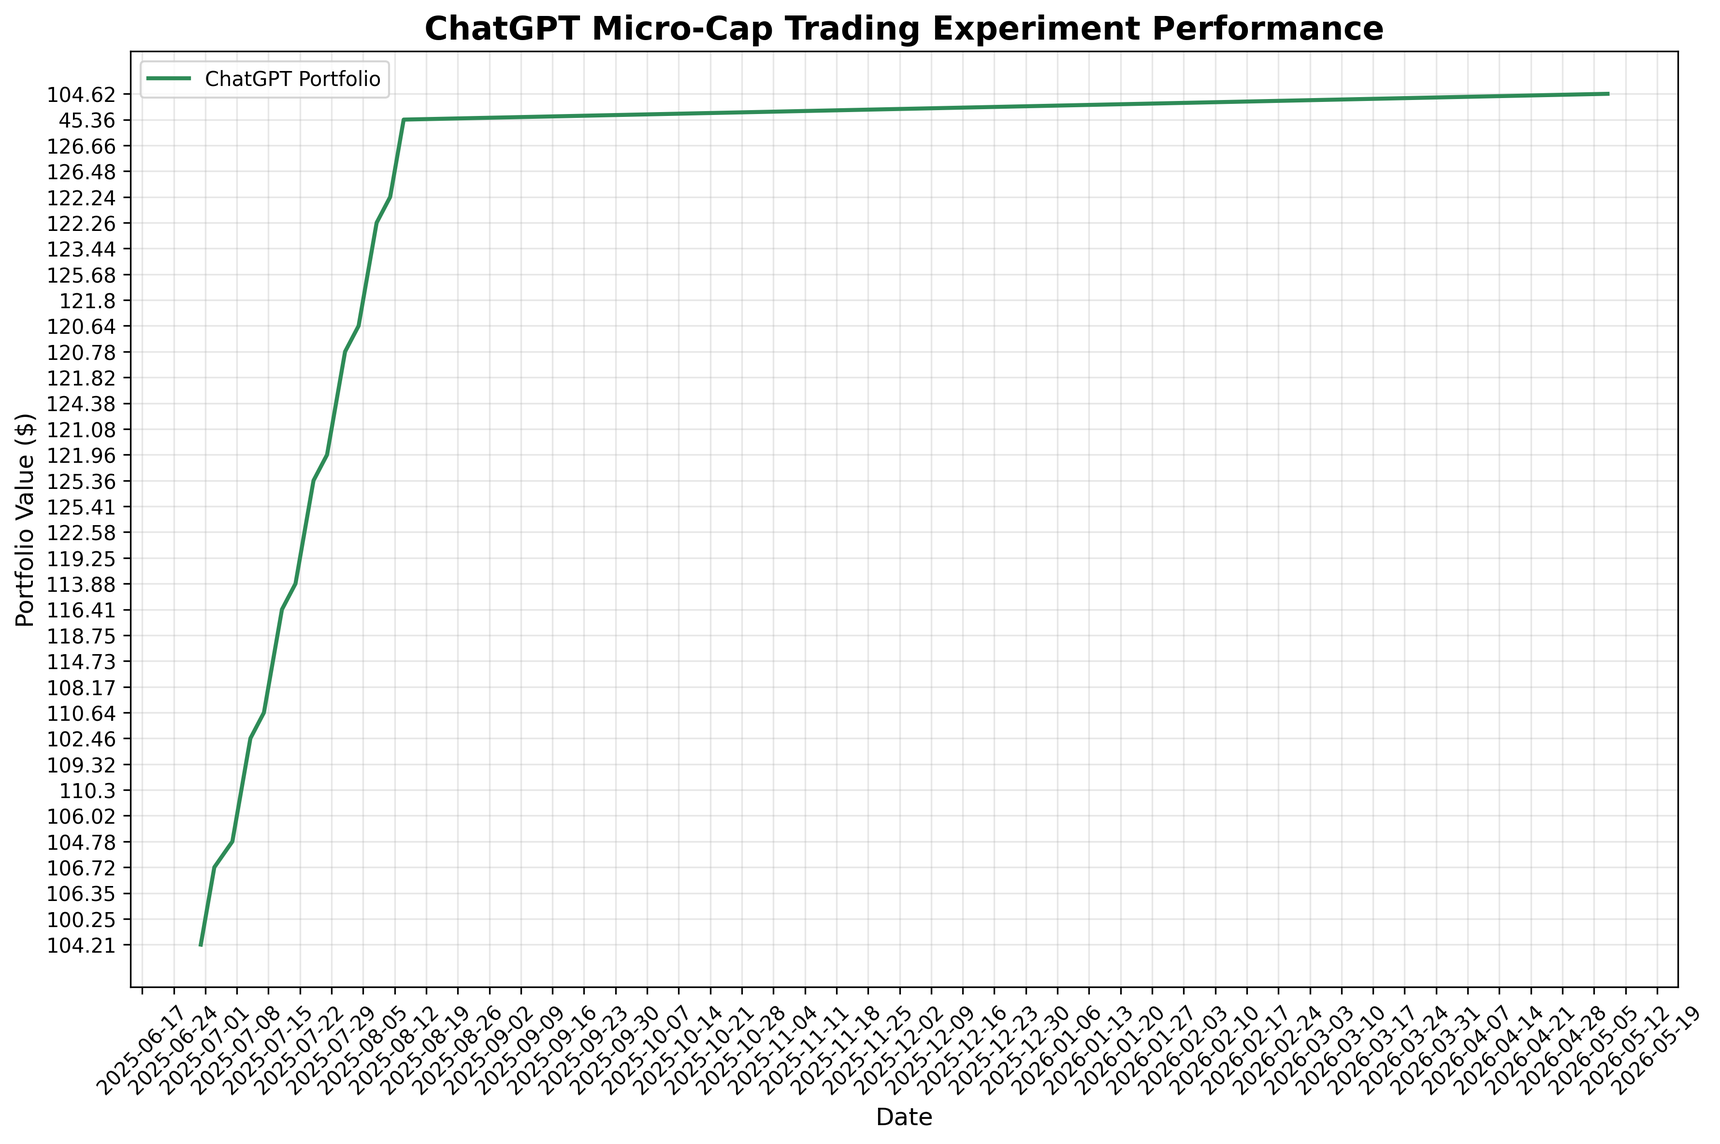
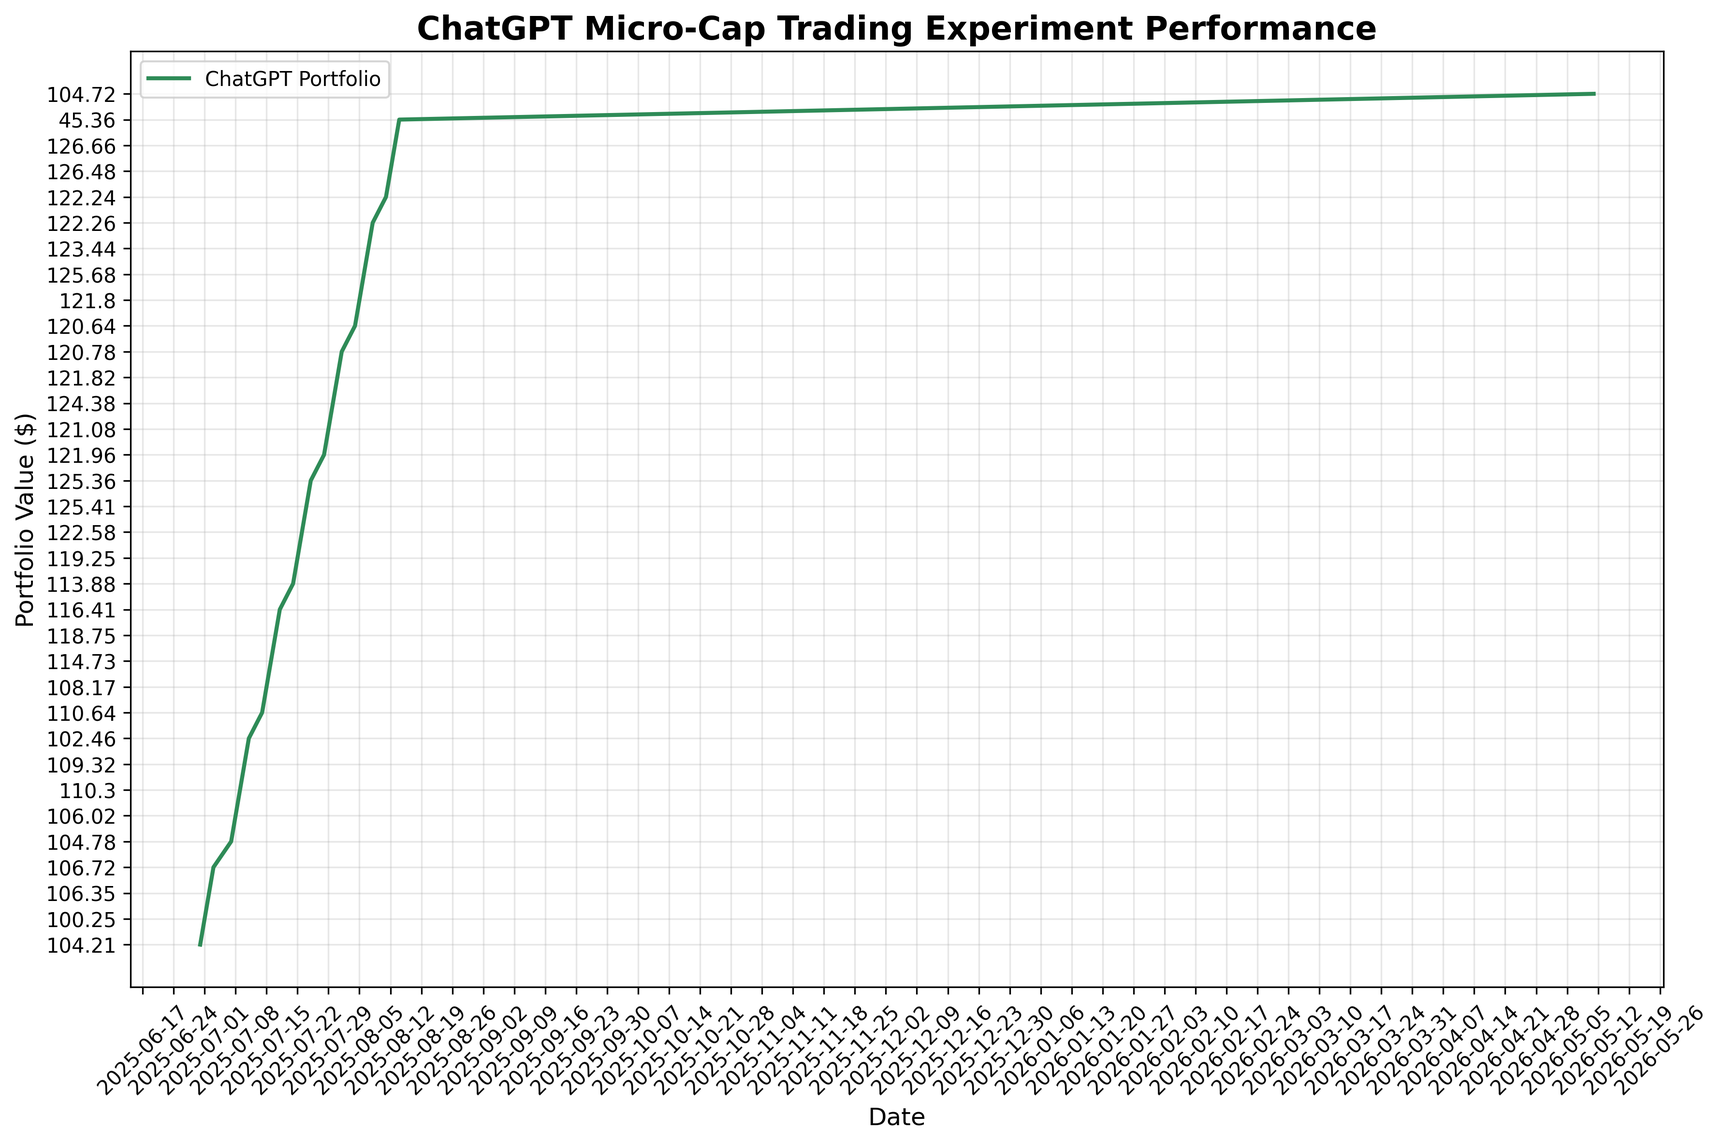
deploy: e15cad030d70fb3fbb51f9df6e22fa70c2f175c0

diff --git a/index.html b/index.html
@@ -105,7 +105,7 @@
                 <div class="stat-label">Total Trades</div>
             </div>
             <div class="stat-card">
-                <div class="stat-value" id="last-updated">2026-05-08</div>
+                <div class="stat-value" id="last-updated">2026-05-11</div>
                 <div class="stat-label">Last Updated</div>
             </div>
         </div>
@@ -160,8 +160,8 @@
     
     <script>
         // Portfolio data
-        const portfolioData = JSON.parse("[{&quot;Date&quot;: &quot;2025-08-11&quot;, &quot;Ticker&quot;: &quot;ABEO&quot;, &quot;Shares&quot;: 4.0, &quot;Buy Price&quot;: 5.77, &quot;Cost Basis&quot;: 23.08, &quot;Stop Loss&quot;: 4.9, &quot;Current Price&quot;: 6.28, &quot;Total Value&quot;: 25.12, &quot;PnL&quot;: 2.04, &quot;Action&quot;: &quot;HOLD&quot;, &quot;Cash Balance&quot;: NaN, &quot;Total Equity&quot;: NaN}, {&quot;Date&quot;: &quot;2025-08-11&quot;, &quot;Ticker&quot;: &quot;ACTU&quot;, &quot;Shares&quot;: 6.0, &quot;Buy Price&quot;: 5.75, &quot;Cost Basis&quot;: 34.5, &quot;Stop Loss&quot;: 4.89, &quot;Current Price&quot;: 8.01, &quot;Total Value&quot;: 48.06, &quot;PnL&quot;: 13.56, &quot;Action&quot;: &quot;HOLD&quot;, &quot;Cash Balance&quot;: NaN, &quot;Total Equity&quot;: NaN}, {&quot;Date&quot;: &quot;2025-08-11&quot;, &quot;Ticker&quot;: &quot;ESPR&quot;, &quot;Shares&quot;: 2.0, &quot;Buy Price&quot;: 1.91, &quot;Cost Basis&quot;: 3.82, &quot;Stop Loss&quot;: 1.6, &quot;Current Price&quot;: 1.85, &quot;Total Value&quot;: 3.7, &quot;PnL&quot;: -0.12, &quot;Action&quot;: &quot;HOLD&quot;, &quot;Cash Balance&quot;: NaN, &quot;Total Equity&quot;: NaN}, {&quot;Date&quot;: &quot;2025-08-11&quot;, &quot;Ticker&quot;: &quot;TOTAL&quot;, &quot;Shares&quot;: NaN, &quot;Buy Price&quot;: NaN, &quot;Cost Basis&quot;: NaN, &quot;Stop Loss&quot;: NaN, &quot;Current Price&quot;: NaN, &quot;Total Value&quot;: 76.88, &quot;PnL&quot;: 15.48, &quot;Action&quot;: NaN, &quot;Cash Balance&quot;: 45.36, &quot;Total Equity&quot;: &quot;122.24&quot;}, {&quot;Date&quot;: &quot;2025-08-12&quot;, &quot;Ticker&quot;: &quot;ABEO&quot;, &quot;Shares&quot;: 4.0, &quot;Buy Price&quot;: 5.77, &quot;Cost Basis&quot;: 23.08, &quot;Stop Loss&quot;: 4.9, &quot;Current Price&quot;: 6.38, &quot;Total Value&quot;: 25.52, &quot;PnL&quot;: 2.44, &quot;Action&quot;: &quot;HOLD&quot;, &quot;Cash Balance&quot;: NaN, &quot;Total Equity&quot;: NaN}, {&quot;Date&quot;: &quot;2025-08-12&quot;, &quot;Ticker&quot;: &quot;ACTU&quot;, &quot;Shares&quot;: 6.0, &quot;Buy Price&quot;: 5.75, &quot;Cost Basis&quot;: 34.5, &quot;Stop Loss&quot;: 4.89, &quot;Current Price&quot;: 8.67, &quot;Total Value&quot;: 52.02, &quot;PnL&quot;: 17.52, &quot;Action&quot;: &quot;HOLD&quot;, &quot;Cash Balance&quot;: NaN, &quot;Total Equity&quot;: NaN}, {&quot;Date&quot;: &quot;2025-08-12&quot;, &quot;Ticker&quot;: &quot;ESPR&quot;, &quot;Shares&quot;: 2.0, &quot;Buy Price&quot;: 1.91, &quot;Cost Basis&quot;: 3.82, &quot;Stop Loss&quot;: 1.6, &quot;Current Price&quot;: 1.79, &quot;Total Value&quot;: 3.58, &quot;PnL&quot;: -0.24, &quot;Action&quot;: &quot;HOLD&quot;, &quot;Cash Balance&quot;: NaN, &quot;Total Equity&quot;: NaN}, {&quot;Date&quot;: &quot;2025-08-12&quot;, &quot;Ticker&quot;: &quot;TOTAL&quot;, &quot;Shares&quot;: NaN, &quot;Buy Price&quot;: NaN, &quot;Cost Basis&quot;: NaN, &quot;Stop Loss&quot;: NaN, &quot;Current Price&quot;: NaN, &quot;Total Value&quot;: 81.12, &quot;PnL&quot;: 19.72, &quot;Action&quot;: NaN, &quot;Cash Balance&quot;: 45.36, &quot;Total Equity&quot;: &quot;126.48&quot;}, {&quot;Date&quot;: &quot;2025-08-13&quot;, &quot;Ticker&quot;: &quot;ABEO&quot;, &quot;Shares&quot;: 4.0, &quot;Buy Price&quot;: 5.77, &quot;Cost Basis&quot;: 23.08, &quot;Stop Loss&quot;: 4.9, &quot;Current Price&quot;: 6.56, &quot;Total Value&quot;: 26.24, &quot;PnL&quot;: 3.16, &quot;Action&quot;: &quot;HOLD&quot;, &quot;Cash Balance&quot;: NaN, &quot;Total Equity&quot;: NaN}, {&quot;Date&quot;: &quot;2025-08-13&quot;, &quot;Ticker&quot;: &quot;ACTU&quot;, &quot;Shares&quot;: 6.0, &quot;Buy Price&quot;: 5.75, &quot;Cost Basis&quot;: 34.5, &quot;Stop Loss&quot;: 4.89, &quot;Current Price&quot;: 8.53, &quot;Total Value&quot;: 51.18, &quot;PnL&quot;: 16.68, &quot;Action&quot;: &quot;HOLD&quot;, &quot;Cash Balance&quot;: NaN, &quot;Total Equity&quot;: NaN}, {&quot;Date&quot;: &quot;2025-08-13&quot;, &quot;Ticker&quot;: &quot;ESPR&quot;, &quot;Shares&quot;: 2.0, &quot;Buy Price&quot;: 1.91, &quot;Cost Basis&quot;: 3.82, &quot;Stop Loss&quot;: 1.6, &quot;Current Price&quot;: 1.94, &quot;Total Value&quot;: 3.88, &quot;PnL&quot;: 0.06, &quot;Action&quot;: &quot;HOLD&quot;, &quot;Cash Balance&quot;: NaN, &quot;Total Equity&quot;: NaN}, {&quot;Date&quot;: &quot;2025-08-13&quot;, &quot;Ticker&quot;: &quot;TOTAL&quot;, &quot;Shares&quot;: NaN, &quot;Buy Price&quot;: NaN, &quot;Cost Basis&quot;: NaN, &quot;Stop Loss&quot;: NaN, &quot;Current Price&quot;: NaN, &quot;Total Value&quot;: 81.3, &quot;PnL&quot;: 19.9, &quot;Action&quot;: NaN, &quot;Cash Balance&quot;: 45.36, &quot;Total Equity&quot;: &quot;126.66&quot;}, {&quot;Date&quot;: &quot;2025-08-14&quot;, &quot;Ticker&quot;: &quot;ABEO&quot;, &quot;Shares&quot;: 4.0, &quot;Buy Price&quot;: 5.77, &quot;Cost Basis&quot;: 23.08, &quot;Stop Loss&quot;: 4.9, &quot;Current Price&quot;: NaN, &quot;Total Value&quot;: NaN, &quot;PnL&quot;: NaN, &quot;Action&quot;: &quot;NO DATA&quot;, &quot;Cash Balance&quot;: NaN, &quot;Total Equity&quot;: NaN}, {&quot;Date&quot;: &quot;2025-08-14&quot;, &quot;Ticker&quot;: &quot;ACTU&quot;, &quot;Shares&quot;: 6.0, &quot;Buy Price&quot;: 5.75, &quot;Cost Basis&quot;: 34.5, &quot;Stop Loss&quot;: 4.89, &quot;Current Price&quot;: NaN, &quot;Total Value&quot;: NaN, &quot;PnL&quot;: NaN, &quot;Action&quot;: &quot;NO DATA&quot;, &quot;Cash Balance&quot;: NaN, &quot;Total Equity&quot;: NaN}, {&quot;Date&quot;: &quot;2025-08-14&quot;, &quot;Ticker&quot;: &quot;ESPR&quot;, &quot;Shares&quot;: 2.0, &quot;Buy Price&quot;: 1.91, &quot;Cost Basis&quot;: 3.82, &quot;Stop Loss&quot;: 1.6, &quot;Current Price&quot;: NaN, &quot;Total Value&quot;: NaN, &quot;PnL&quot;: NaN, &quot;Action&quot;: &quot;NO DATA&quot;, &quot;Cash Balance&quot;: NaN, &quot;Total Equity&quot;: NaN}, {&quot;Date&quot;: &quot;2025-08-14&quot;, &quot;Ticker&quot;: &quot;TOTAL&quot;, &quot;Shares&quot;: NaN, &quot;Buy Price&quot;: NaN, &quot;Cost Basis&quot;: NaN, &quot;Stop Loss&quot;: NaN, &quot;Current Price&quot;: NaN, &quot;Total Value&quot;: 0.0, &quot;PnL&quot;: 0.0, &quot;Action&quot;: NaN, &quot;Cash Balance&quot;: 45.36, &quot;Total Equity&quot;: &quot;45.36&quot;}, {&quot;Date&quot;: &quot;2026-05-08&quot;, &quot;Ticker&quot;: &quot;ABEO&quot;, &quot;Shares&quot;: 4.0, &quot;Buy Price&quot;: 5.77, &quot;Cost Basis&quot;: 23.08, &quot;Stop Loss&quot;: 4.9, &quot;Current Price&quot;: 5.91, &quot;Total Value&quot;: 23.64, &quot;PnL&quot;: 0.56, &quot;Action&quot;: &quot;HOLD&quot;, &quot;Cash Balance&quot;: NaN, &quot;Total Equity&quot;: NaN}, {&quot;Date&quot;: &quot;2026-05-08&quot;, &quot;Ticker&quot;: &quot;ACTU&quot;, &quot;Shares&quot;: 6.0, &quot;Buy Price&quot;: 5.75, &quot;Cost Basis&quot;: 34.5, &quot;Stop Loss&quot;: 4.89, &quot;Current Price&quot;: 4.89, &quot;Total Value&quot;: 29.34, &quot;PnL&quot;: -5.16, &quot;Action&quot;: &quot;SELL - Stop Loss Triggered&quot;, &quot;Cash Balance&quot;: NaN, &quot;Total Equity&quot;: NaN}, {&quot;Date&quot;: &quot;2026-05-08&quot;, &quot;Ticker&quot;: &quot;ESPR&quot;, &quot;Shares&quot;: 2.0, &quot;Buy Price&quot;: 1.91, &quot;Cost Basis&quot;: 3.82, &quot;Stop Loss&quot;: 1.6, &quot;Current Price&quot;: 3.14, &quot;Total Value&quot;: 6.28, &quot;PnL&quot;: 2.46, &quot;Action&quot;: &quot;HOLD&quot;, &quot;Cash Balance&quot;: NaN, &quot;Total Equity&quot;: NaN}, {&quot;Date&quot;: &quot;2026-05-08&quot;, &quot;Ticker&quot;: &quot;TOTAL&quot;, &quot;Shares&quot;: NaN, &quot;Buy Price&quot;: NaN, &quot;Cost Basis&quot;: NaN, &quot;Stop Loss&quot;: NaN, &quot;Current Price&quot;: NaN, &quot;Total Value&quot;: 29.92, &quot;PnL&quot;: 3.02, &quot;Action&quot;: NaN, &quot;Cash Balance&quot;: 74.7, &quot;Total Equity&quot;: &quot;104.62&quot;}]");
-        const tradeData = JSON.parse("[{&quot;Date&quot;: &quot;2025-07-08&quot;, &quot;Ticker&quot;: &quot;IINN&quot;, &quot;Shares Bought&quot;: 20.0, &quot;Buy Price&quot;: 1.5, &quot;Cost Basis&quot;: 30.0, &quot;PnL&quot;: 0.0, &quot;Reason&quot;: &quot;MANUAL BUY - New position&quot;, &quot;Shares Sold&quot;: NaN, &quot;Sell Price&quot;: NaN}, {&quot;Date&quot;: &quot;2025-07-21&quot;, &quot;Ticker&quot;: &quot;CADL&quot;, &quot;Shares Bought&quot;: NaN, &quot;Buy Price&quot;: NaN, &quot;Cost Basis&quot;: 25.2, &quot;PnL&quot;: 8.5, &quot;Reason&quot;: &quot;MANUAL SELL - GAIN CAPITAL FOR ACTU&quot;, &quot;Shares Sold&quot;: 5.0, &quot;Sell Price&quot;: 6.59}, {&quot;Date&quot;: &quot;2025-07-21&quot;, &quot;Ticker&quot;: &quot;ACTU&quot;, &quot;Shares Bought&quot;: 6.0, &quot;Buy Price&quot;: 5.75, &quot;Cost Basis&quot;: 34.5, &quot;PnL&quot;: 0.0, &quot;Reason&quot;: &quot;MANUAL BUY - New position&quot;, &quot;Shares Sold&quot;: NaN, &quot;Sell Price&quot;: NaN}, {&quot;Date&quot;: &quot;2025-07-28&quot;, &quot;Ticker&quot;: &quot;IINN&quot;, &quot;Shares Bought&quot;: NaN, &quot;Buy Price&quot;: NaN, &quot;Cost Basis&quot;: 9.0, &quot;PnL&quot;: -0.5400000000000009, &quot;Reason&quot;: &quot;MANUAL SELL - POSITION REDUCTION&quot;, &quot;Shares Sold&quot;: 6.0, &quot;Sell Price&quot;: 1.41}, {&quot;Date&quot;: &quot;2025-07-29&quot;, &quot;Ticker&quot;: &quot;AZTR&quot;, &quot;Shares Bought&quot;: NaN, &quot;Buy Price&quot;: NaN, &quot;Cost Basis&quot;: 13.75, &quot;PnL&quot;: -2.75, &quot;Reason&quot;: &quot;MANUAL SELL - DILUTION RISK&quot;, &quot;Shares Sold&quot;: 55.0, &quot;Sell Price&quot;: 0.2}, {&quot;Date&quot;: &quot;2025-08-01&quot;, &quot;Ticker&quot;: &quot;IINN&quot;, &quot;Shares Bought&quot;: 2.0, &quot;Buy Price&quot;: 1.74, &quot;Cost Basis&quot;: 3.48, &quot;PnL&quot;: 0.0, &quot;Reason&quot;: &quot;MANUAL BUY - New position&quot;, &quot;Shares Sold&quot;: NaN, &quot;Sell Price&quot;: NaN}, {&quot;Date&quot;: &quot;2025-08-01&quot;, &quot;Ticker&quot;: &quot;ABEO&quot;, &quot;Shares Bought&quot;: NaN, &quot;Buy Price&quot;: NaN, &quot;Cost Basis&quot;: 11.54, &quot;PnL&quot;: 1.200000000000001, &quot;Reason&quot;: &quot;MANUAL SELL - TRIM AFTER SUPPORT LOSS&quot;, &quot;Shares Sold&quot;: 2.0, &quot;Sell Price&quot;: 6.37}, {&quot;Date&quot;: &quot;2025-08-07&quot;, &quot;Ticker&quot;: &quot;ESPR&quot;, &quot;Shares Bought&quot;: 2.0, &quot;Buy Price&quot;: 1.91, &quot;Cost Basis&quot;: 3.82, &quot;PnL&quot;: 0.0, &quot;Reason&quot;: &quot;MANUAL BUY - New position&quot;, &quot;Shares Sold&quot;: NaN, &quot;Sell Price&quot;: NaN}, {&quot;Date&quot;: &quot;2025-08-08&quot;, &quot;Ticker&quot;: &quot;IINN&quot;, &quot;Shares Bought&quot;: NaN, &quot;Buy Price&quot;: NaN, &quot;Cost Basis&quot;: 1.5, &quot;PnL&quot;: -6.4, &quot;Reason&quot;: &quot;AUTOMATED SELL - STOPLOSS TRIGGERED&quot;, &quot;Shares Sold&quot;: 16.0, &quot;Sell Price&quot;: 1.1}, {&quot;Date&quot;: &quot;2026-05-08&quot;, &quot;Ticker&quot;: &quot;ACTU&quot;, &quot;Shares Bought&quot;: NaN, &quot;Buy Price&quot;: NaN, &quot;Cost Basis&quot;: 5.75, &quot;PnL&quot;: -5.16, &quot;Reason&quot;: &quot;AUTOMATED SELL - STOPLOSS TRIGGERED&quot;, &quot;Shares Sold&quot;: 6.0, &quot;Sell Price&quot;: 4.89}]");
+        const portfolioData = JSON.parse("[{&quot;Date&quot;: &quot;2025-08-11&quot;, &quot;Ticker&quot;: &quot;ABEO&quot;, &quot;Shares&quot;: 4.0, &quot;Buy Price&quot;: 5.77, &quot;Cost Basis&quot;: 23.08, &quot;Stop Loss&quot;: 4.9, &quot;Current Price&quot;: 6.28, &quot;Total Value&quot;: 25.12, &quot;PnL&quot;: 2.04, &quot;Action&quot;: &quot;HOLD&quot;, &quot;Cash Balance&quot;: NaN, &quot;Total Equity&quot;: NaN}, {&quot;Date&quot;: &quot;2025-08-11&quot;, &quot;Ticker&quot;: &quot;ACTU&quot;, &quot;Shares&quot;: 6.0, &quot;Buy Price&quot;: 5.75, &quot;Cost Basis&quot;: 34.5, &quot;Stop Loss&quot;: 4.89, &quot;Current Price&quot;: 8.01, &quot;Total Value&quot;: 48.06, &quot;PnL&quot;: 13.56, &quot;Action&quot;: &quot;HOLD&quot;, &quot;Cash Balance&quot;: NaN, &quot;Total Equity&quot;: NaN}, {&quot;Date&quot;: &quot;2025-08-11&quot;, &quot;Ticker&quot;: &quot;ESPR&quot;, &quot;Shares&quot;: 2.0, &quot;Buy Price&quot;: 1.91, &quot;Cost Basis&quot;: 3.82, &quot;Stop Loss&quot;: 1.6, &quot;Current Price&quot;: 1.85, &quot;Total Value&quot;: 3.7, &quot;PnL&quot;: -0.12, &quot;Action&quot;: &quot;HOLD&quot;, &quot;Cash Balance&quot;: NaN, &quot;Total Equity&quot;: NaN}, {&quot;Date&quot;: &quot;2025-08-11&quot;, &quot;Ticker&quot;: &quot;TOTAL&quot;, &quot;Shares&quot;: NaN, &quot;Buy Price&quot;: NaN, &quot;Cost Basis&quot;: NaN, &quot;Stop Loss&quot;: NaN, &quot;Current Price&quot;: NaN, &quot;Total Value&quot;: 76.88, &quot;PnL&quot;: 15.48, &quot;Action&quot;: NaN, &quot;Cash Balance&quot;: 45.36, &quot;Total Equity&quot;: &quot;122.24&quot;}, {&quot;Date&quot;: &quot;2025-08-12&quot;, &quot;Ticker&quot;: &quot;ABEO&quot;, &quot;Shares&quot;: 4.0, &quot;Buy Price&quot;: 5.77, &quot;Cost Basis&quot;: 23.08, &quot;Stop Loss&quot;: 4.9, &quot;Current Price&quot;: 6.38, &quot;Total Value&quot;: 25.52, &quot;PnL&quot;: 2.44, &quot;Action&quot;: &quot;HOLD&quot;, &quot;Cash Balance&quot;: NaN, &quot;Total Equity&quot;: NaN}, {&quot;Date&quot;: &quot;2025-08-12&quot;, &quot;Ticker&quot;: &quot;ACTU&quot;, &quot;Shares&quot;: 6.0, &quot;Buy Price&quot;: 5.75, &quot;Cost Basis&quot;: 34.5, &quot;Stop Loss&quot;: 4.89, &quot;Current Price&quot;: 8.67, &quot;Total Value&quot;: 52.02, &quot;PnL&quot;: 17.52, &quot;Action&quot;: &quot;HOLD&quot;, &quot;Cash Balance&quot;: NaN, &quot;Total Equity&quot;: NaN}, {&quot;Date&quot;: &quot;2025-08-12&quot;, &quot;Ticker&quot;: &quot;ESPR&quot;, &quot;Shares&quot;: 2.0, &quot;Buy Price&quot;: 1.91, &quot;Cost Basis&quot;: 3.82, &quot;Stop Loss&quot;: 1.6, &quot;Current Price&quot;: 1.79, &quot;Total Value&quot;: 3.58, &quot;PnL&quot;: -0.24, &quot;Action&quot;: &quot;HOLD&quot;, &quot;Cash Balance&quot;: NaN, &quot;Total Equity&quot;: NaN}, {&quot;Date&quot;: &quot;2025-08-12&quot;, &quot;Ticker&quot;: &quot;TOTAL&quot;, &quot;Shares&quot;: NaN, &quot;Buy Price&quot;: NaN, &quot;Cost Basis&quot;: NaN, &quot;Stop Loss&quot;: NaN, &quot;Current Price&quot;: NaN, &quot;Total Value&quot;: 81.12, &quot;PnL&quot;: 19.72, &quot;Action&quot;: NaN, &quot;Cash Balance&quot;: 45.36, &quot;Total Equity&quot;: &quot;126.48&quot;}, {&quot;Date&quot;: &quot;2025-08-13&quot;, &quot;Ticker&quot;: &quot;ABEO&quot;, &quot;Shares&quot;: 4.0, &quot;Buy Price&quot;: 5.77, &quot;Cost Basis&quot;: 23.08, &quot;Stop Loss&quot;: 4.9, &quot;Current Price&quot;: 6.56, &quot;Total Value&quot;: 26.24, &quot;PnL&quot;: 3.16, &quot;Action&quot;: &quot;HOLD&quot;, &quot;Cash Balance&quot;: NaN, &quot;Total Equity&quot;: NaN}, {&quot;Date&quot;: &quot;2025-08-13&quot;, &quot;Ticker&quot;: &quot;ACTU&quot;, &quot;Shares&quot;: 6.0, &quot;Buy Price&quot;: 5.75, &quot;Cost Basis&quot;: 34.5, &quot;Stop Loss&quot;: 4.89, &quot;Current Price&quot;: 8.53, &quot;Total Value&quot;: 51.18, &quot;PnL&quot;: 16.68, &quot;Action&quot;: &quot;HOLD&quot;, &quot;Cash Balance&quot;: NaN, &quot;Total Equity&quot;: NaN}, {&quot;Date&quot;: &quot;2025-08-13&quot;, &quot;Ticker&quot;: &quot;ESPR&quot;, &quot;Shares&quot;: 2.0, &quot;Buy Price&quot;: 1.91, &quot;Cost Basis&quot;: 3.82, &quot;Stop Loss&quot;: 1.6, &quot;Current Price&quot;: 1.94, &quot;Total Value&quot;: 3.88, &quot;PnL&quot;: 0.06, &quot;Action&quot;: &quot;HOLD&quot;, &quot;Cash Balance&quot;: NaN, &quot;Total Equity&quot;: NaN}, {&quot;Date&quot;: &quot;2025-08-13&quot;, &quot;Ticker&quot;: &quot;TOTAL&quot;, &quot;Shares&quot;: NaN, &quot;Buy Price&quot;: NaN, &quot;Cost Basis&quot;: NaN, &quot;Stop Loss&quot;: NaN, &quot;Current Price&quot;: NaN, &quot;Total Value&quot;: 81.3, &quot;PnL&quot;: 19.9, &quot;Action&quot;: NaN, &quot;Cash Balance&quot;: 45.36, &quot;Total Equity&quot;: &quot;126.66&quot;}, {&quot;Date&quot;: &quot;2025-08-14&quot;, &quot;Ticker&quot;: &quot;ABEO&quot;, &quot;Shares&quot;: 4.0, &quot;Buy Price&quot;: 5.77, &quot;Cost Basis&quot;: 23.08, &quot;Stop Loss&quot;: 4.9, &quot;Current Price&quot;: NaN, &quot;Total Value&quot;: NaN, &quot;PnL&quot;: NaN, &quot;Action&quot;: &quot;NO DATA&quot;, &quot;Cash Balance&quot;: NaN, &quot;Total Equity&quot;: NaN}, {&quot;Date&quot;: &quot;2025-08-14&quot;, &quot;Ticker&quot;: &quot;ACTU&quot;, &quot;Shares&quot;: 6.0, &quot;Buy Price&quot;: 5.75, &quot;Cost Basis&quot;: 34.5, &quot;Stop Loss&quot;: 4.89, &quot;Current Price&quot;: NaN, &quot;Total Value&quot;: NaN, &quot;PnL&quot;: NaN, &quot;Action&quot;: &quot;NO DATA&quot;, &quot;Cash Balance&quot;: NaN, &quot;Total Equity&quot;: NaN}, {&quot;Date&quot;: &quot;2025-08-14&quot;, &quot;Ticker&quot;: &quot;ESPR&quot;, &quot;Shares&quot;: 2.0, &quot;Buy Price&quot;: 1.91, &quot;Cost Basis&quot;: 3.82, &quot;Stop Loss&quot;: 1.6, &quot;Current Price&quot;: NaN, &quot;Total Value&quot;: NaN, &quot;PnL&quot;: NaN, &quot;Action&quot;: &quot;NO DATA&quot;, &quot;Cash Balance&quot;: NaN, &quot;Total Equity&quot;: NaN}, {&quot;Date&quot;: &quot;2025-08-14&quot;, &quot;Ticker&quot;: &quot;TOTAL&quot;, &quot;Shares&quot;: NaN, &quot;Buy Price&quot;: NaN, &quot;Cost Basis&quot;: NaN, &quot;Stop Loss&quot;: NaN, &quot;Current Price&quot;: NaN, &quot;Total Value&quot;: 0.0, &quot;PnL&quot;: 0.0, &quot;Action&quot;: NaN, &quot;Cash Balance&quot;: 45.36, &quot;Total Equity&quot;: &quot;45.36&quot;}, {&quot;Date&quot;: &quot;2026-05-11&quot;, &quot;Ticker&quot;: &quot;ABEO&quot;, &quot;Shares&quot;: 4.0, &quot;Buy Price&quot;: 5.77, &quot;Cost Basis&quot;: 23.08, &quot;Stop Loss&quot;: 4.9, &quot;Current Price&quot;: 5.94, &quot;Total Value&quot;: 23.76, &quot;PnL&quot;: 0.68, &quot;Action&quot;: &quot;HOLD&quot;, &quot;Cash Balance&quot;: NaN, &quot;Total Equity&quot;: NaN}, {&quot;Date&quot;: &quot;2026-05-11&quot;, &quot;Ticker&quot;: &quot;ACTU&quot;, &quot;Shares&quot;: 6.0, &quot;Buy Price&quot;: 5.75, &quot;Cost Basis&quot;: 34.5, &quot;Stop Loss&quot;: 4.89, &quot;Current Price&quot;: 4.89, &quot;Total Value&quot;: 29.34, &quot;PnL&quot;: -5.16, &quot;Action&quot;: &quot;SELL - Stop Loss Triggered&quot;, &quot;Cash Balance&quot;: NaN, &quot;Total Equity&quot;: NaN}, {&quot;Date&quot;: &quot;2026-05-11&quot;, &quot;Ticker&quot;: &quot;ESPR&quot;, &quot;Shares&quot;: 2.0, &quot;Buy Price&quot;: 1.91, &quot;Cost Basis&quot;: 3.82, &quot;Stop Loss&quot;: 1.6, &quot;Current Price&quot;: 3.13, &quot;Total Value&quot;: 6.26, &quot;PnL&quot;: 2.44, &quot;Action&quot;: &quot;HOLD&quot;, &quot;Cash Balance&quot;: NaN, &quot;Total Equity&quot;: NaN}, {&quot;Date&quot;: &quot;2026-05-11&quot;, &quot;Ticker&quot;: &quot;TOTAL&quot;, &quot;Shares&quot;: NaN, &quot;Buy Price&quot;: NaN, &quot;Cost Basis&quot;: NaN, &quot;Stop Loss&quot;: NaN, &quot;Current Price&quot;: NaN, &quot;Total Value&quot;: 30.02, &quot;PnL&quot;: 3.12, &quot;Action&quot;: NaN, &quot;Cash Balance&quot;: 74.7, &quot;Total Equity&quot;: &quot;104.72&quot;}]");
+        const tradeData = JSON.parse("[{&quot;Date&quot;: &quot;2025-07-08&quot;, &quot;Ticker&quot;: &quot;IINN&quot;, &quot;Shares Bought&quot;: 20.0, &quot;Buy Price&quot;: 1.5, &quot;Cost Basis&quot;: 30.0, &quot;PnL&quot;: 0.0, &quot;Reason&quot;: &quot;MANUAL BUY - New position&quot;, &quot;Shares Sold&quot;: NaN, &quot;Sell Price&quot;: NaN}, {&quot;Date&quot;: &quot;2025-07-21&quot;, &quot;Ticker&quot;: &quot;CADL&quot;, &quot;Shares Bought&quot;: NaN, &quot;Buy Price&quot;: NaN, &quot;Cost Basis&quot;: 25.2, &quot;PnL&quot;: 8.5, &quot;Reason&quot;: &quot;MANUAL SELL - GAIN CAPITAL FOR ACTU&quot;, &quot;Shares Sold&quot;: 5.0, &quot;Sell Price&quot;: 6.59}, {&quot;Date&quot;: &quot;2025-07-21&quot;, &quot;Ticker&quot;: &quot;ACTU&quot;, &quot;Shares Bought&quot;: 6.0, &quot;Buy Price&quot;: 5.75, &quot;Cost Basis&quot;: 34.5, &quot;PnL&quot;: 0.0, &quot;Reason&quot;: &quot;MANUAL BUY - New position&quot;, &quot;Shares Sold&quot;: NaN, &quot;Sell Price&quot;: NaN}, {&quot;Date&quot;: &quot;2025-07-28&quot;, &quot;Ticker&quot;: &quot;IINN&quot;, &quot;Shares Bought&quot;: NaN, &quot;Buy Price&quot;: NaN, &quot;Cost Basis&quot;: 9.0, &quot;PnL&quot;: -0.5400000000000009, &quot;Reason&quot;: &quot;MANUAL SELL - POSITION REDUCTION&quot;, &quot;Shares Sold&quot;: 6.0, &quot;Sell Price&quot;: 1.41}, {&quot;Date&quot;: &quot;2025-07-29&quot;, &quot;Ticker&quot;: &quot;AZTR&quot;, &quot;Shares Bought&quot;: NaN, &quot;Buy Price&quot;: NaN, &quot;Cost Basis&quot;: 13.75, &quot;PnL&quot;: -2.75, &quot;Reason&quot;: &quot;MANUAL SELL - DILUTION RISK&quot;, &quot;Shares Sold&quot;: 55.0, &quot;Sell Price&quot;: 0.2}, {&quot;Date&quot;: &quot;2025-08-01&quot;, &quot;Ticker&quot;: &quot;IINN&quot;, &quot;Shares Bought&quot;: 2.0, &quot;Buy Price&quot;: 1.74, &quot;Cost Basis&quot;: 3.48, &quot;PnL&quot;: 0.0, &quot;Reason&quot;: &quot;MANUAL BUY - New position&quot;, &quot;Shares Sold&quot;: NaN, &quot;Sell Price&quot;: NaN}, {&quot;Date&quot;: &quot;2025-08-01&quot;, &quot;Ticker&quot;: &quot;ABEO&quot;, &quot;Shares Bought&quot;: NaN, &quot;Buy Price&quot;: NaN, &quot;Cost Basis&quot;: 11.54, &quot;PnL&quot;: 1.200000000000001, &quot;Reason&quot;: &quot;MANUAL SELL - TRIM AFTER SUPPORT LOSS&quot;, &quot;Shares Sold&quot;: 2.0, &quot;Sell Price&quot;: 6.37}, {&quot;Date&quot;: &quot;2025-08-07&quot;, &quot;Ticker&quot;: &quot;ESPR&quot;, &quot;Shares Bought&quot;: 2.0, &quot;Buy Price&quot;: 1.91, &quot;Cost Basis&quot;: 3.82, &quot;PnL&quot;: 0.0, &quot;Reason&quot;: &quot;MANUAL BUY - New position&quot;, &quot;Shares Sold&quot;: NaN, &quot;Sell Price&quot;: NaN}, {&quot;Date&quot;: &quot;2025-08-08&quot;, &quot;Ticker&quot;: &quot;IINN&quot;, &quot;Shares Bought&quot;: NaN, &quot;Buy Price&quot;: NaN, &quot;Cost Basis&quot;: 1.5, &quot;PnL&quot;: -6.4, &quot;Reason&quot;: &quot;AUTOMATED SELL - STOPLOSS TRIGGERED&quot;, &quot;Shares Sold&quot;: 16.0, &quot;Sell Price&quot;: 1.1}, {&quot;Date&quot;: &quot;2026-05-11&quot;, &quot;Ticker&quot;: &quot;ACTU&quot;, &quot;Shares Bought&quot;: NaN, &quot;Buy Price&quot;: NaN, &quot;Cost Basis&quot;: 5.75, &quot;PnL&quot;: -5.16, &quot;Reason&quot;: &quot;AUTOMATED SELL - STOPLOSS TRIGGERED&quot;, &quot;Shares Sold&quot;: 6.0, &quot;Sell Price&quot;: 4.89}]");
         
         // Update total equity
         if (portfolioData.length > 0) {
